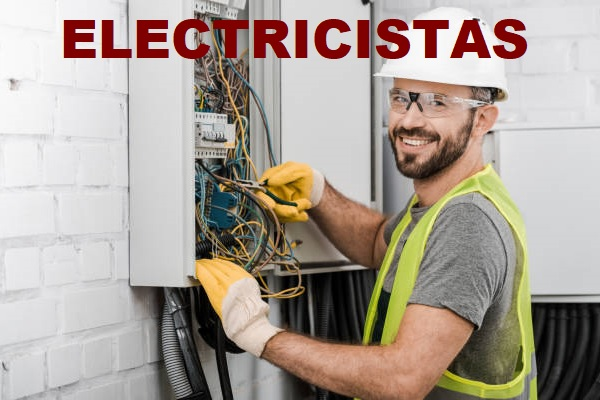
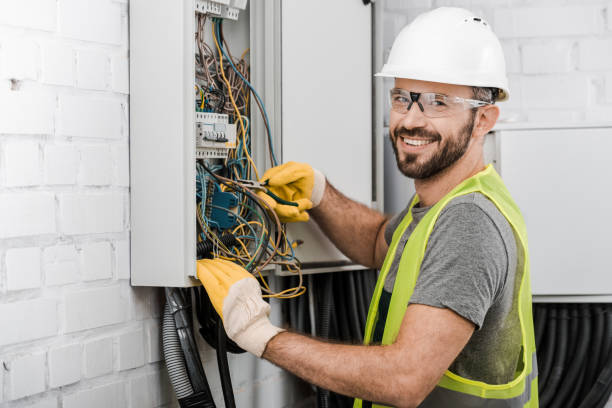
Modifique imagenes cards y publicidad

diff --git a/css/main.css b/css/main.css
@@ -1,5 +1,5 @@
 /* Fondo: mismo estilo o imagen del index.html */
-body{
+body {
   margin: 0;
   padding: 0;
   height: 100%;
@@ -85,11 +85,10 @@ nav {
   display: flex;
   transition: transform 0.5s ease-in-out;
   width: max-content;
-  
 }
 
 .carousel a img {
-  width: 100%;     /* Para que se adapte al contenedor */
+  width: 100%; /* Para que se adapte al contenedor */
   height: 450px;
   margin-bottom: -0.5%;
   object-fit: cover;
@@ -137,13 +136,11 @@ nav {
   background-color: rgba(0, 0, 0, 0.7);
 }
 
-
 /* Trabajos más buscados */
 .trabajos {
   text-align: center;
   padding: 40px 20px;
 }
-
 
 .trabajos h4 {
   margin-bottom: 20px;
@@ -178,13 +175,10 @@ nav {
   transform: scale(1.05);
 }
 
-
-
 /* Publicaciones */
 .publicaciones {
   padding: 20px;
   background-color: #e0f7f7;
- 
 }
 
 .publicaciones h4 {
@@ -200,7 +194,6 @@ nav {
   gap: 50px;
   padding: 0 20px;
   margin-bottom: 5%;
-
 }
 
 .post-card {
@@ -236,14 +229,15 @@ nav {
   margin: 2px 0;
 }
 
-
 /* Estructura del sitio */
 .contenedor-sitio {
   display: flex;
   flex-grow: 1;
   overflow: hidden;
   position: relative; /* Asegura que el botón de alternar se posicione correctamente */
-  height: calc(100vh - 170px); /* Altura dinámica para que el sidebar tenga altura completa (ajusta 170px según tu header y top-bar) */
+  height: calc(
+    100vh - 170px
+  ); /* Altura dinámica para que el sidebar tenga altura completa (ajusta 170px según tu header y top-bar) */
 }
 
 .barra-lateral-izquierda {
@@ -301,75 +295,75 @@ nav {
 
 /* Estilos para el buscador */
 .sidebar-header {
-    display: flex;
-    align-items: center;
-    justify-content: space-between;
-    margin-bottom: 20px;
-    padding: 0 10px; /* Ajuste de padding para el header */
-    width: 100%; /* Ocupa todo el ancho disponible del sidebar */
-    box-sizing: border-box;
+  display: flex;
+  align-items: center;
+  justify-content: space-between;
+  margin-bottom: 20px;
+  padding: 0 10px; /* Ajuste de padding para el header */
+  width: 100%; /* Ocupa todo el ancho disponible del sidebar */
+  box-sizing: border-box;
 }
 
 .barra-lateral-izquierda.collapsed .sidebar-header {
-    justify-content: center; /* Centra el botón cuando el sidebar está colapsado */
-    padding: 0;
-    margin-bottom: 0; /* No margin-bottom cuando colapsado */
+  justify-content: center; /* Centra el botón cuando el sidebar está colapsado */
+  padding: 0;
+  margin-bottom: 0; /* No margin-bottom cuando colapsado */
 }
 
 .search-box {
-    position: relative;
-    flex-grow: 1;
-    margin-right: 20px; /* Espacio entre el buscador y el botón */
+  position: relative;
+  flex-grow: 1;
+  margin-right: 20px; /* Espacio entre el buscador y el botón */
 }
 
 .search-box input {
-    width: calc(100% - 20px); /* Ajusta el ancho para el icono */
-    padding: 8px 10px 8px 30px; /* Espacio para el icono de búsqueda */
-    border: 1px solid #ccc;
-    border-radius: 5px;
-    font-size: 0.9em;
+  width: calc(100% - 20px); /* Ajusta el ancho para el icono */
+  padding: 8px 10px 8px 30px; /* Espacio para el icono de búsqueda */
+  border: 1px solid #ccc;
+  border-radius: 5px;
+  font-size: 0.9em;
 }
 
 .search-box .fa-search {
-    position: absolute;
-    left: 10px;
-    top: 50%;
-    transform: translateY(-50%);
-    color: #888;
+  position: absolute;
+  left: 10px;
+  top: 50%;
+  transform: translateY(-50%);
+  color: #888;
 }
 
 /* Estilos para el botón de alternar */
 .toggle-btn {
-    background-color: transparent;
-    border: none;
-    font-size: 1.2em;
-    cursor: pointer;
-    color: #555;
-    padding: 5px;
-    transition: transform 0.3s ease-in-out;
-    /* Ajustes para el botón cuando el sidebar está colapsado */
+  background-color: transparent;
+  border: none;
+  font-size: 1.2em;
+  cursor: pointer;
+  color: #555;
+  padding: 5px;
+  transition: transform 0.3s ease-in-out;
+  /* Ajustes para el botón cuando el sidebar está colapsado */
 }
 
 .barra-lateral-izquierda.collapsed .toggle-btn {
-    margin: 0 auto; /* Centra el botón horizontalmente */
-    transform: translateX(0); 
-    padding: 5px 0; /* Ajusta el padding para que no se vea el fondo blanco del padding original */
+  margin: 0 auto; /* Centra el botón horizontalmente */
+  transform: translateX(0);
+  padding: 5px 0; /* Ajusta el padding para que no se vea el fondo blanco del padding original */
 }
 
-
 .toggle-btn .fa-chevron-left {
-    transform: rotate(0deg); /* Flecha hacia la izquierda por defecto */
+  transform: rotate(0deg); /* Flecha hacia la izquierda por defecto */
 }
 
 .barra-lateral-izquierda.collapsed .toggle-btn .fa-chevron-left {
-    transform: rotate(180deg); /* Flecha hacia la derecha cuando contraído */
+  transform: rotate(180deg); /* Flecha hacia la derecha cuando contraído */
 }
 
 /* Ocultar el contenido del sidebar cuando está contraído */
 .sidebar-content {
-    flex-grow: 1; /* Permite que el contenido tome el espacio restante */
-    overflow-y: auto; /* Agrega scroll solo al contenido si es necesario */
-    transition: opacity 0.3s ease-in-out, visibility 0.3s ease-in-out, max-height 0.3s ease-in-out, margin-top 0.3s ease-in-out;
+  flex-grow: 1; /* Permite que el contenido tome el espacio restante */
+  overflow-y: auto; /* Agrega scroll solo al contenido si es necesario */
+  transition: opacity 0.3s ease-in-out, visibility 0.3s ease-in-out,
+    max-height 0.3s ease-in-out, margin-top 0.3s ease-in-out;
 }
 
 .barra-lateral-izquierda.collapsed .sidebar-content {
@@ -387,7 +381,6 @@ nav {
   max-height: 1000px; /* Un valor grande para que el contenido se vea */
   margin-top: 0;
 }
-
 
 /* Ajuste del contenido principal cuando el sidebar está colapsado */
 /* Esto puede no ser necesario si el flexbox ya maneja el espacio */
@@ -409,11 +402,11 @@ nav {
 .imagen-fija {
   position: fixed;
   /* Se mantiene en la pantalla */
-  bottom: 50%;
+  bottom: 15%;
   /* Distancia desde abajo */
   right: 20px;
   /* Distancia desde la derecha */
-  width: 30%;
+  width: 15%;
   /* Tamaño ajustable */
   z-index: 999;
   /* Para que esté por encima del resto */

diff --git a/html/index.html b/html/index.html
@@ -9,7 +9,7 @@
 </head>
 
 <body>
-  <img src="/imagenes/carrusel_pub/isft130.webp" alt="Decoración" class="imagen-fija">
+  <img src="/imagenes/artes_visuales.png" alt="Decoración" class="imagen-fija">
   <!-- Top bar para el registro -->
   <div class="top-bar">
     Algunas funciones estan limitadas, preciona <a href="Login.html" class="bold">aquí</a> para poder registrarte y
@@ -96,54 +96,54 @@
             <a href="/html/publicacion.html"><img src="/imagenes/trabajos/personaltrainers.jpg" alt="Imagen del trabajo"></a>
           </div>
           <div class="post-info">
-            <h5 class="post-title">Plomero</h5>
-            <p class="post-location">Ubicación: Loma Negra</p>
-            <p class="post-solicitante">Solicitante: Juan Rutia</p>
+            <h5 class="post-title">Personal Trainer</h5>
+            <p class="post-location">Ubicación: Olavarría</p>
+            <p class="post-solicitante">Solicitante: Laura Gimenez</p>
           </div>
         </div>
         
         <div class="post-card">
           <div class="post-img">
-           <a href="/html/publicacion.html"><img src="/imagenes/trabajos/albaniles.jpg" alt="Imagen del trabajo"></a> 
+           <a href="/html/publicacion.html"><img src="/imagenes/trabajos/albaniles2.jpg" alt="Imagen del trabajo"></a> 
           </div>
           <div class="post-info">
             <h5 class="post-title">Albañil</h5>
-            <p class="post-location">Ubicación: Olavarría</p>
-            <p class="post-solicitante">Solicitante: Juan Pérez</p>
+            <p class="post-location">Ubicación: Sierra Chica</p>
+            <p class="post-solicitante">Solicitante: Marcos Gutierrez</p>
           </div>
         </div>
 
         <!-- Publicación 2 (duplicada como ejemplo) -->
         <div class="post-card">
           <div class="post-img">
-            <a href="/html/publicacion.html"><img src="/imagenes/trabajos/electricistas.jpg" alt="Imagen del trabajo"></a>
+            <a href="/html/publicacion.html"><img src="/imagenes/trabajos/electricistas2.jpg" alt="Imagen del trabajo"></a>
           </div>
           <div class="post-info">
             <h5 class="post-title">Electricista</h5>
-            <p class="post-location">Ubicación: Azul</p>
-            <p class="post-solicitante">Solicitante: Ana Gómez</p>
+            <p class="post-location">Ubicación: Olavarría</p>
+            <p class="post-solicitante">Solicitante: Nestor Díaz</p>
           </div>
         </div>
 
         <div class="post-card">
           <div class="post-img">
-           <a href="/html/publicacion.html"><img src="/imagenes/trabajos/plomeros.jpg" alt="Imagen del trabajo"></a>
+           <a href="/html/publicacion.html"><img src="/imagenes/trabajos/plomeros2.jpg" alt="Imagen del trabajo"></a>
           </div>
           <div class="post-info">
             <h5 class="post-title">Plomero</h5>
-            <p class="post-location">Ubicación: Loma Negra</p>
-            <p class="post-solicitante">Solicitante: Juan Rutia</p>
+            <p class="post-location">Ubicación: Sierras Bayas</p>
+            <p class="post-solicitante">Solicitante: Gustavo Álvarez</p>
           </div>
         </div>
 
         <div class="post-card">
           <div class="post-img">
-            <a href="/html/publicacion.html"><img src="/imagenes/trabajos/personaltrainers.jpg" alt="Imagen del trabajo"></a>
+            <a href="/html/publicacion.html"><img src="/imagenes/trabajos/personaltrainers2.jpg" alt="Imagen del trabajo"></a>
           </div>
           <div class="post-info">
-            <h5 class="post-title">Plomero</h5>
-            <p class="post-location">Ubicación: Loma Negra</p>
-            <p class="post-solicitante">Solicitante: Juan Rutia</p>
+            <h5 class="post-title">Personal Trainer</h5>
+            <p class="post-location">Ubicación: Olavarría</p>
+            <p class="post-solicitante">Solicitante: Diego Zamudio</p>
           </div>
         </div>
 
